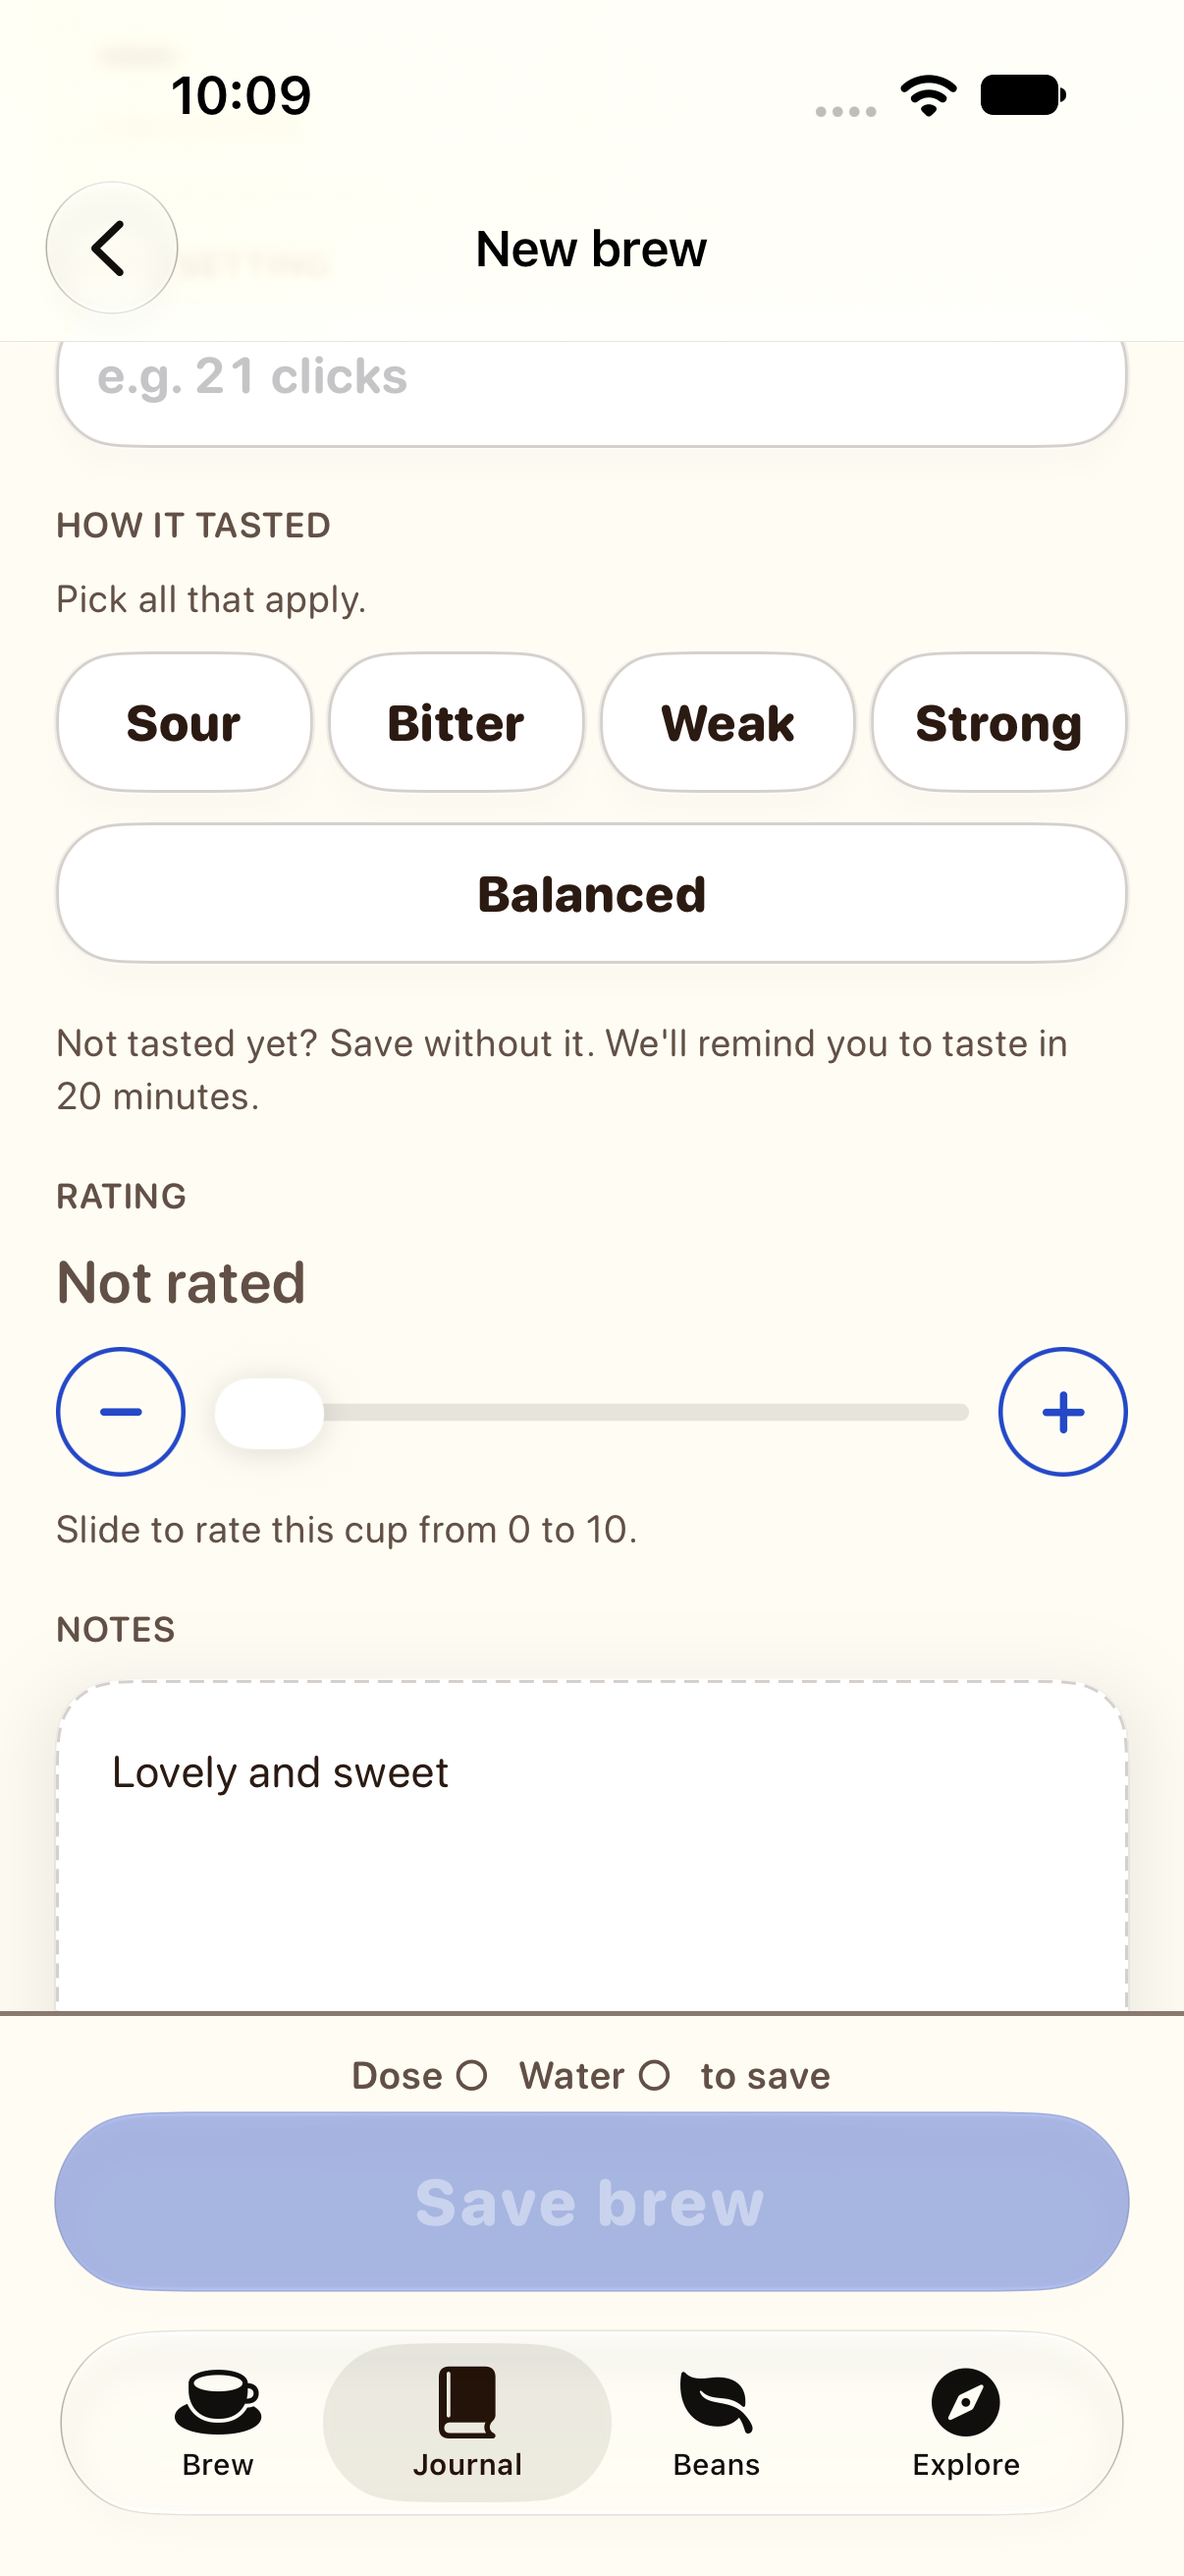
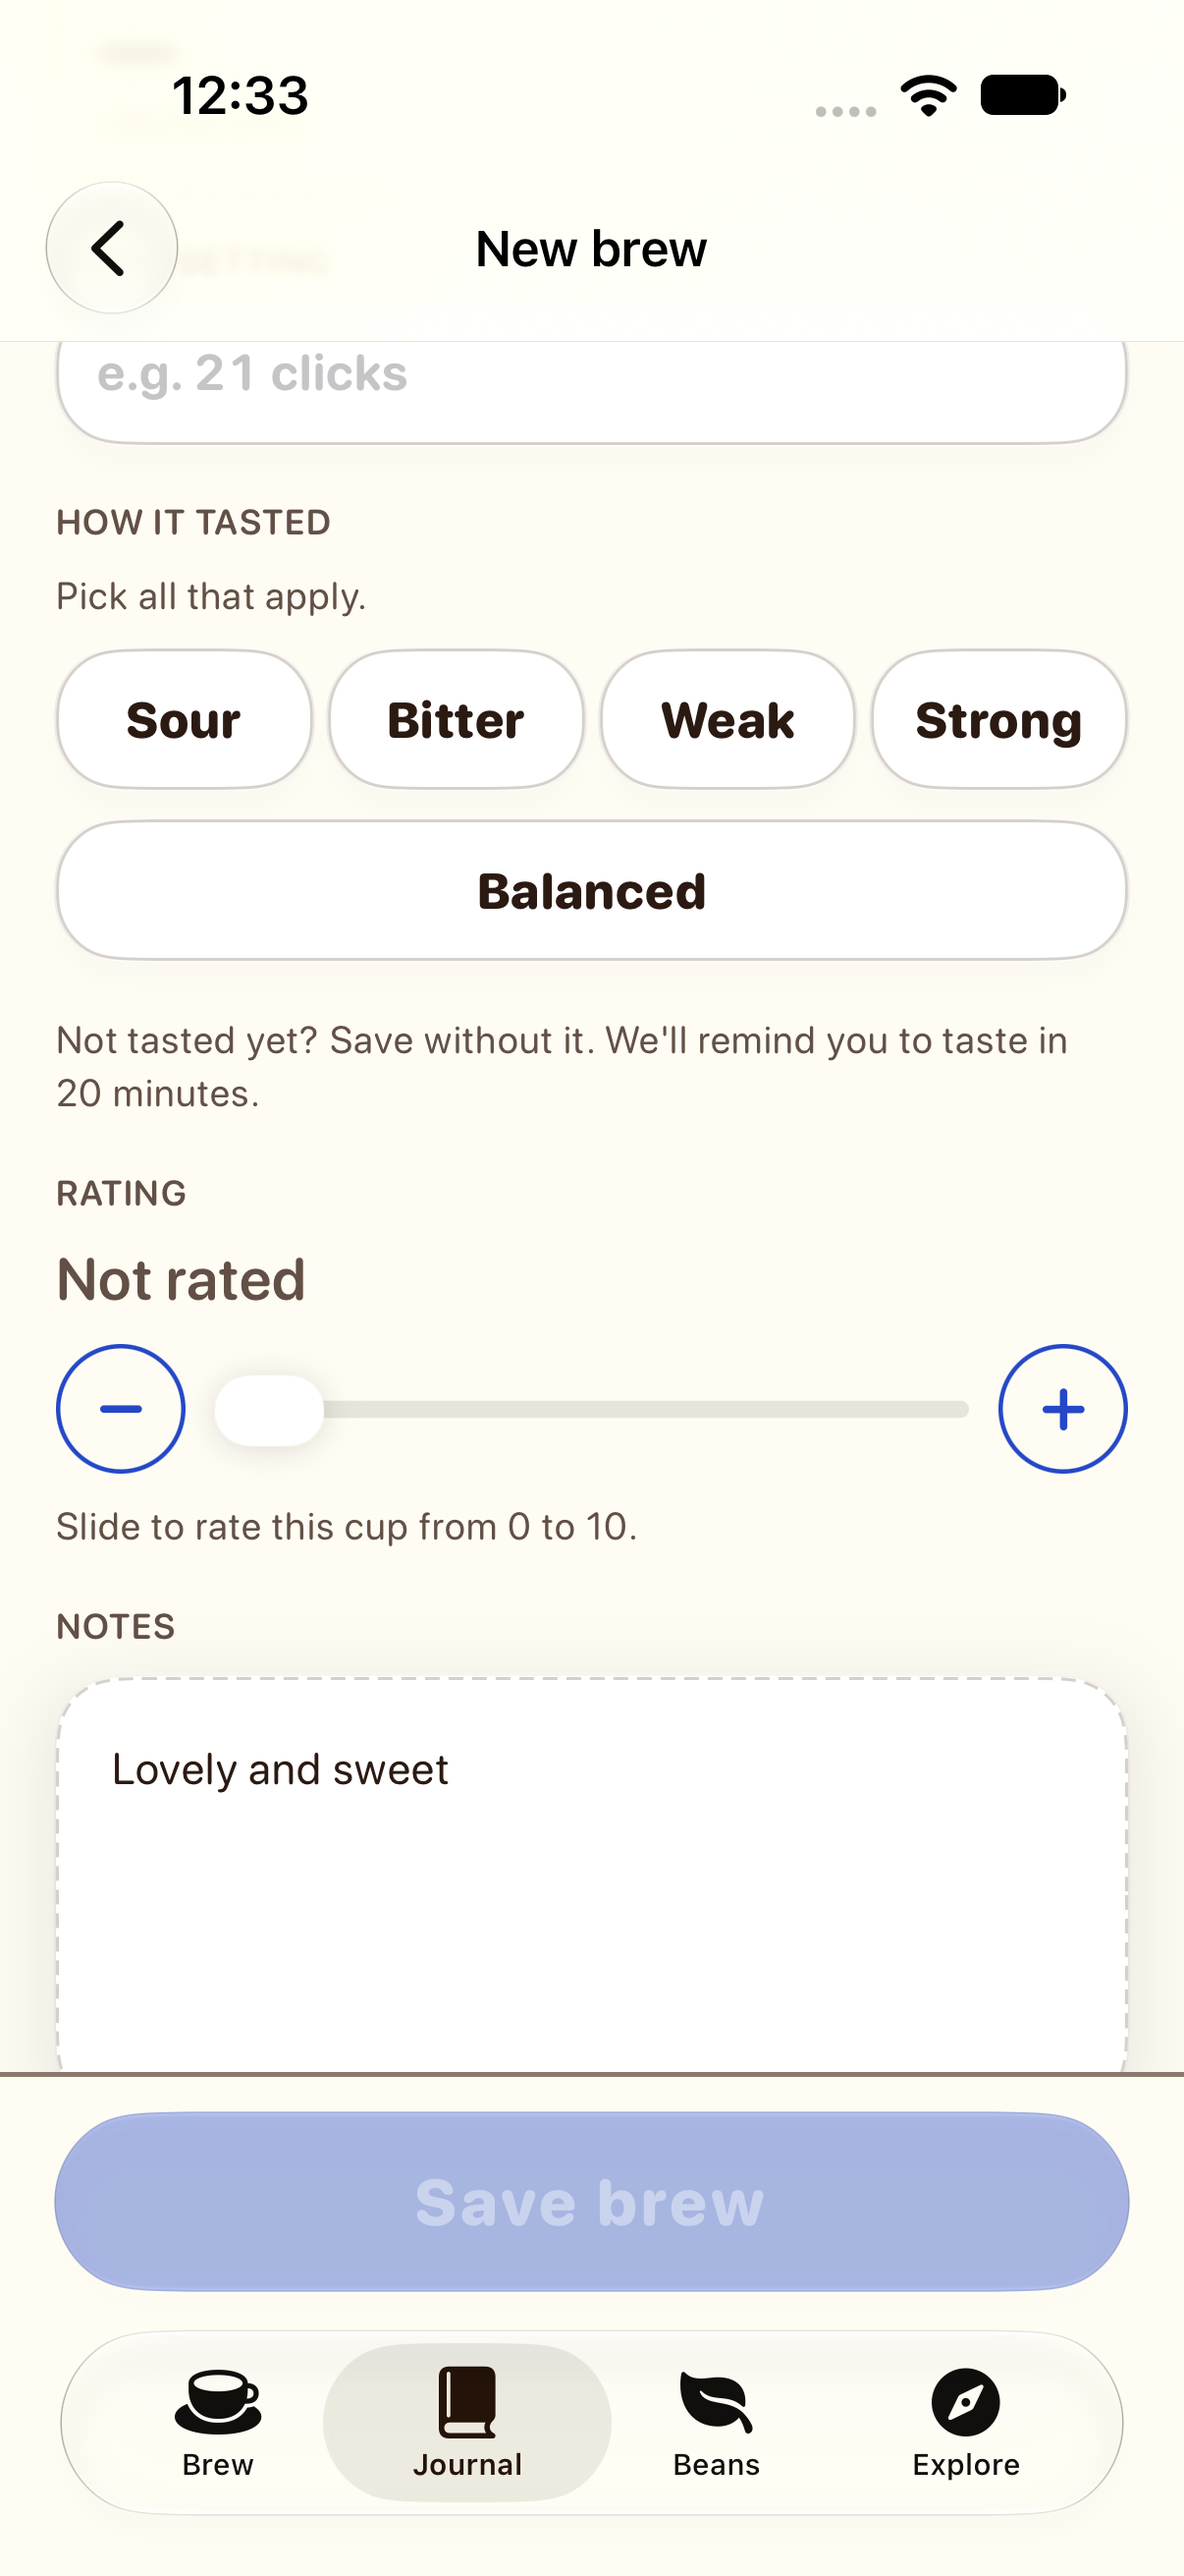
Remove the Dose/Water to-save line above Save brew
VoiceOver still hears what is missing as the button's hint.

diff --git a/NextCup/Features/Journal/BrewFormView.swift b/NextCup/Features/Journal/BrewFormView.swift
@@ -830,19 +830,9 @@ struct BrewFormView: View {
 
   private func saveBar(_ model: BrewFormModel) -> some View {
     VStack(spacing: DS.Space.xs) {
-      if !model.draft.canSave {
-        // How close the brew is to savable, not just what is missing.
-        let dose = (model.draft.doseG ?? 0) > 0
-        let water = (model.draft.waterG ?? 0) > 0
-        Text("Dose \(dose ? "✓" : "○")   Water \(water ? "✓" : "○")   to save")
-          .font(.footnote.weight(.semibold)).foregroundStyle(DS.ink2)
-          .accessibilityLabel(
-            "Set \([dose ? nil : "dose", water ? nil : "water"].compactMap { $0 }.joined(separator: " and ")) to save"
-          )
-          .accessibilityIdentifier("brewform.save.hint")
-      }
       SteelButton(title: "Save brew", isLoading: model.isSaving) { model.save() }
         .disabled(!model.canSave)
+        .accessibilityHint(model.draft.canSave ? "" : "Set dose and water to save")
         .accessibilityIdentifier("brewform.save")
     }
     .padding(.horizontal, DS.Space.lg).padding(.vertical, DS.Space.md)

diff --git a/NextCupUITests/NextCupUITests.swift b/NextCupUITests/NextCupUITests.swift
@@ -401,7 +401,6 @@ final class NextCupUITests: XCTestCase {
     app.buttons["Log a brew"].firstMatch.tap()
     XCTAssertTrue(element(app, "destination.brew.new").waitForExistence(timeout: 5))
     XCTAssertFalse(app.buttons["Save brew"].isEnabled, "nothing to save yet")
-    XCTAssertTrue(element(app, "brewform.save.hint").exists)
   }
 
   @MainActor
